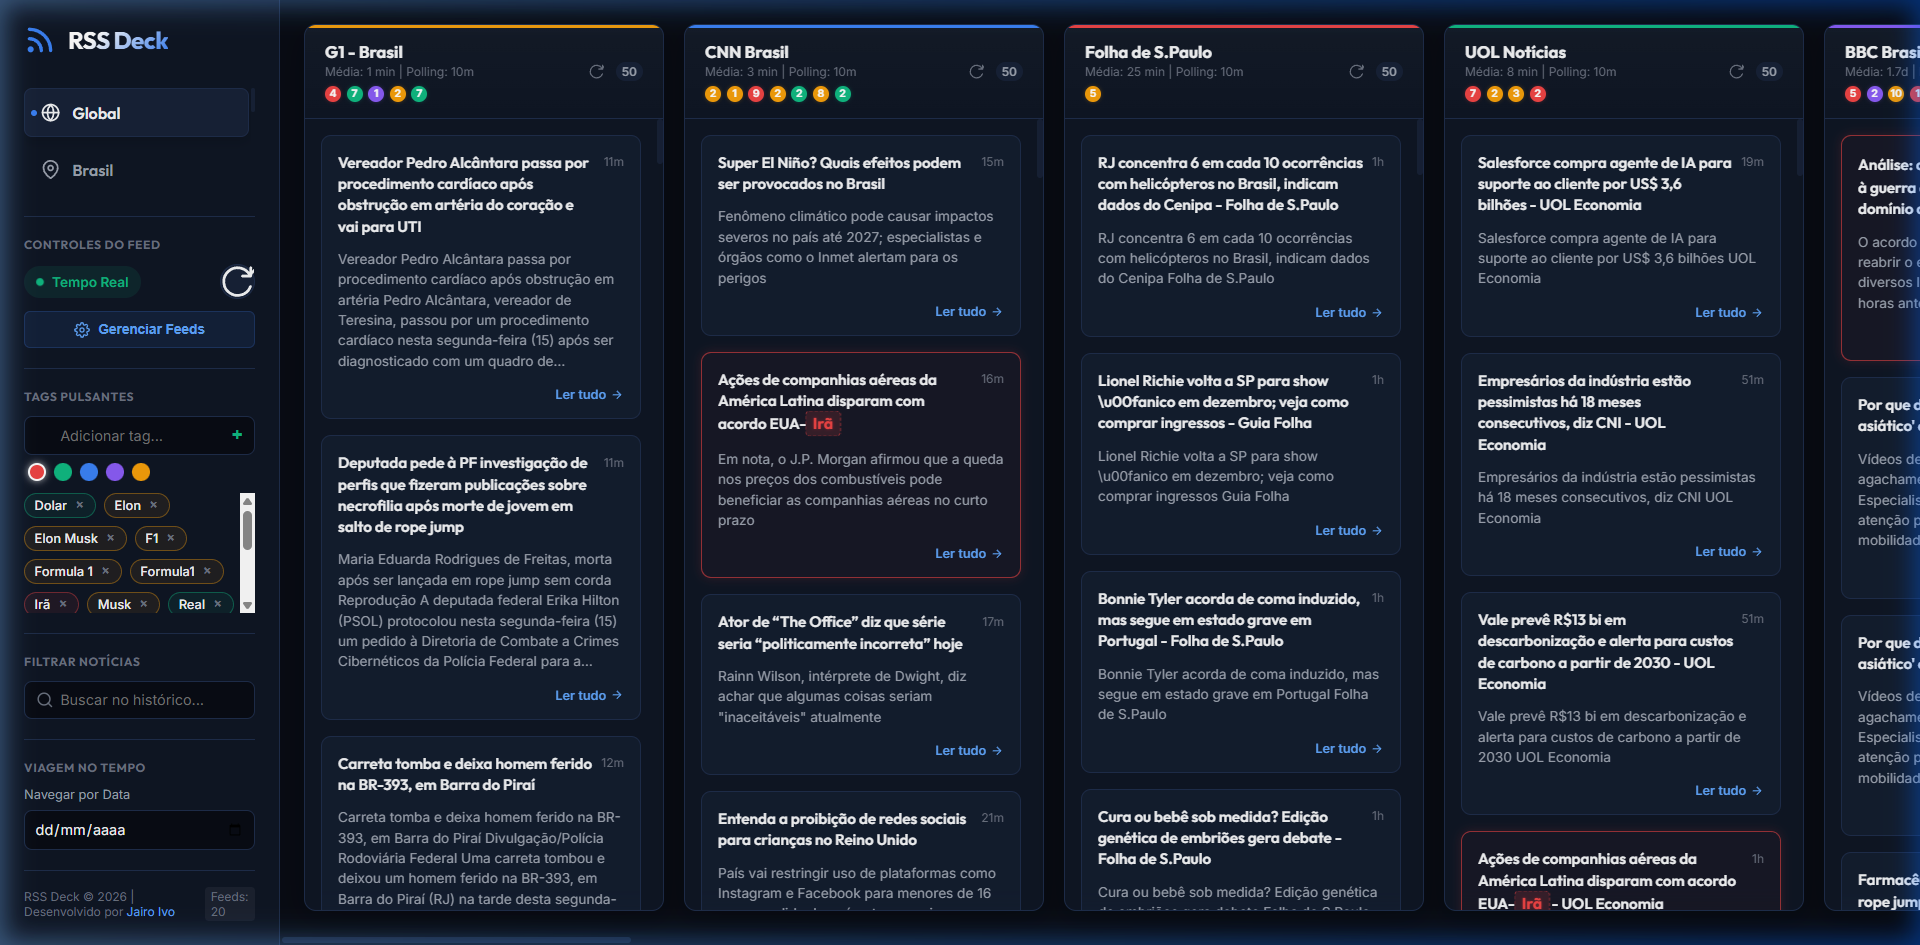
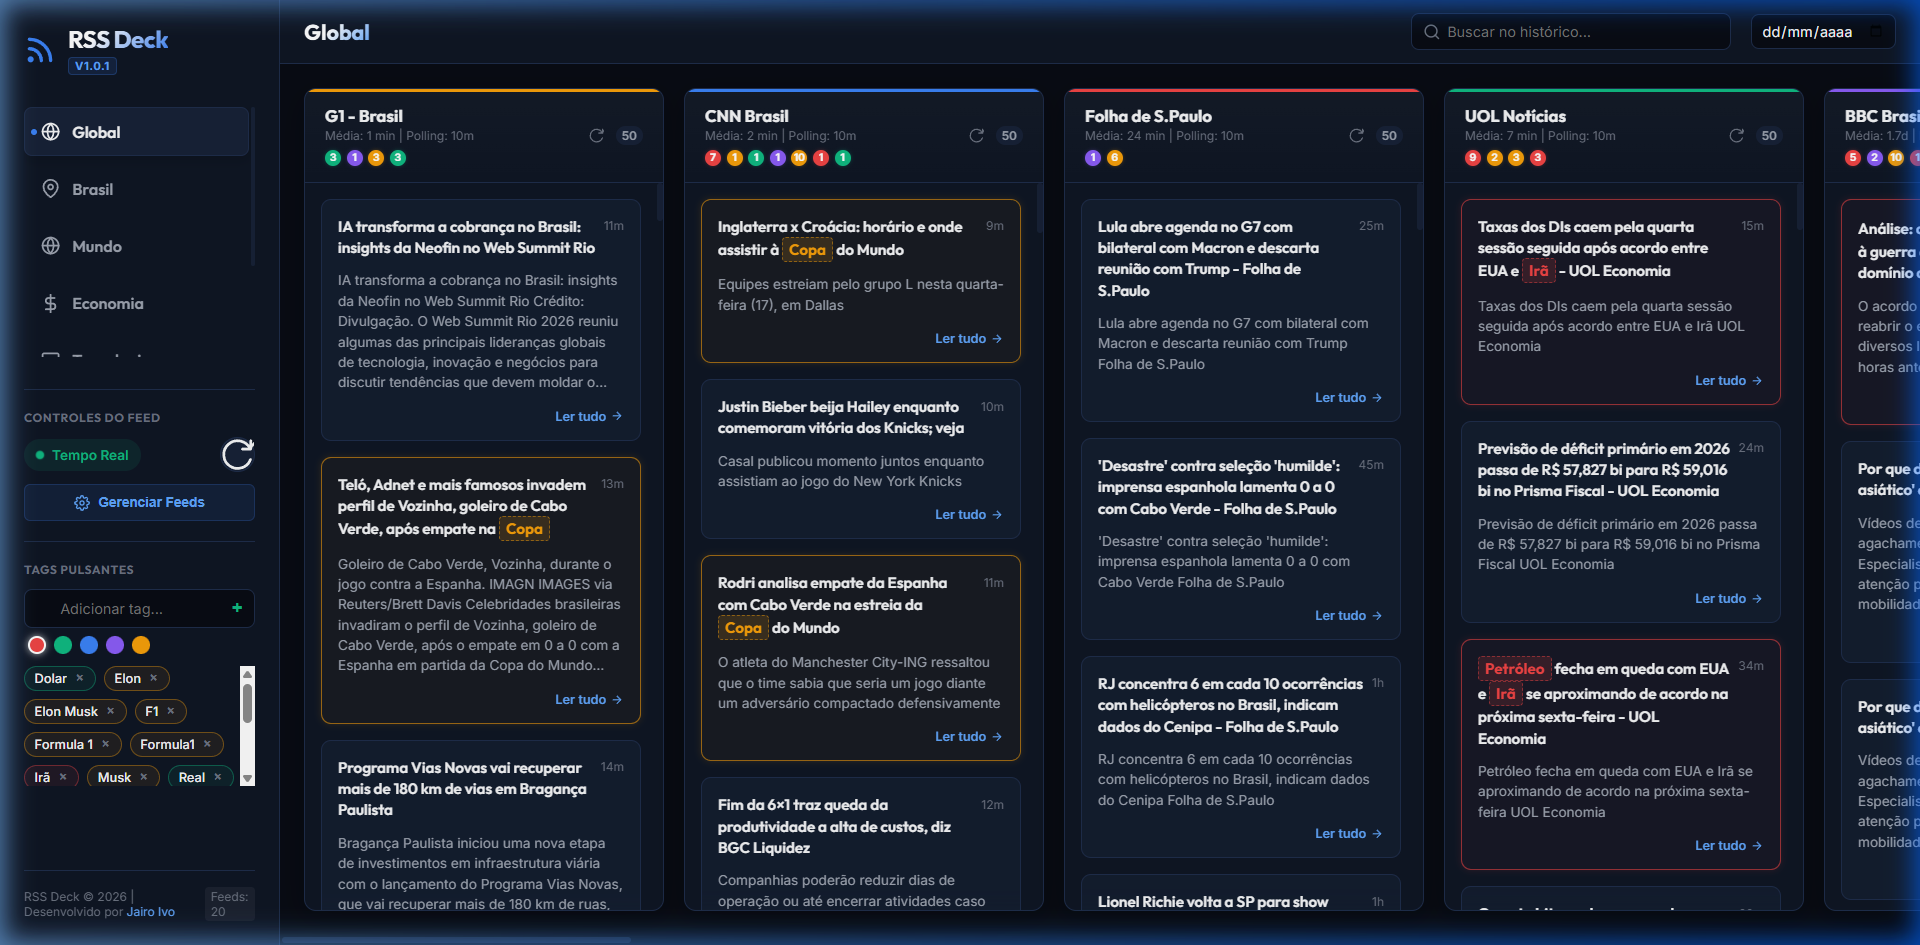
Move search/time-travel to top bar, add version badge, semantic version compare, and registry desktop shortcut resolver

Changed region(s): [[0.0, 0.0, 1.0, 1.0], [0.75, 0.3989, 0.9375, 0.6444], [0.375, 0.3989, 0.5312, 0.5524]]

diff --git a/static/style.css b/static/style.css
@@ -1380,3 +1380,110 @@ body {
   50% { opacity: 0.75; filter: brightness(0.8) saturate(0.8); }
   100% { opacity: 0.95; filter: brightness(0.95) saturate(0.9); }
 }
+
+/* Brand Text and Version Badge */
+.brand-text {
+  display: flex;
+  flex-direction: column;
+  justify-content: center;
+}
+.brand-text h1 {
+  margin-bottom: 2px !important;
+}
+.app-version-badge {
+  align-self: flex-start;
+  font-size: 0.7rem;
+  font-weight: 700;
+  color: var(--color-accent-hover);
+  background-color: rgba(59, 130, 246, 0.12);
+  padding: 1px 6px;
+  border-radius: 4px;
+  border: 1px solid rgba(59, 130, 246, 0.25);
+  font-family: var(--font-ui);
+  text-transform: uppercase;
+  letter-spacing: 0.05em;
+  margin-top: 1px;
+}
+
+/* Main Content Wrapper and Top Bar */
+.main-content {
+  display: flex;
+  flex-direction: column;
+  flex-grow: 1;
+  height: 100%;
+  overflow: hidden;
+  background-color: var(--bg-primary);
+}
+
+.top-bar {
+  height: 64px;
+  background-color: var(--bg-secondary);
+  border-bottom: 1px solid var(--border-color);
+  display: flex;
+  align-items: center;
+  justify-content: space-between;
+  padding: 0 1.5rem;
+  flex-shrink: 0;
+}
+
+.top-bar-title {
+  display: flex;
+  align-items: center;
+}
+
+.active-tab-title {
+  font-family: var(--font-heading);
+  font-size: 1.35rem;
+  font-weight: 800;
+  color: var(--text-primary);
+  letter-spacing: -0.015em;
+  background: linear-gradient(135deg, #fff 40%, var(--color-accent-hover) 100%);
+  -webkit-background-clip: text;
+  -webkit-text-fill-color: transparent;
+}
+
+.top-bar-controls {
+  display: flex;
+  align-items: center;
+  gap: 1.25rem;
+}
+
+.top-bar-controls .search-box {
+  width: 320px;
+}
+
+.top-bar-controls .search-box input {
+  padding: 0.55rem 0.75rem 0.55rem 2.2rem;
+}
+
+.top-bar-controls .time-travel-wrapper {
+  display: flex;
+  align-items: center;
+  gap: 0.75rem;
+}
+
+.top-bar-controls .custom-date-input {
+  width: 145px;
+  padding: 0.45rem 0.6rem;
+  background-color: var(--bg-primary);
+  border: 1px solid var(--border-color);
+  border-radius: 8px;
+  color: var(--text-primary);
+  font-family: var(--font-ui);
+  font-size: 0.9rem;
+  outline: none;
+  cursor: pointer;
+  transition: var(--transition-smooth);
+}
+
+.top-bar-controls .custom-date-input:focus {
+  border-color: var(--color-accent);
+}
+
+.top-bar-controls .reset-time-btn {
+  margin-top: 0;
+  padding: 0.45rem 0.85rem;
+  font-size: 0.85rem;
+  font-weight: 600;
+  white-space: nowrap;
+}

diff --git a/static/index.html b/static/index.html
@@ -20,7 +20,10 @@
           <path d="M4 4a16 16 0 0 1 16 16"></path>
           <circle cx="5" cy="19" r="1"></circle>
         </svg>
-        <h1>RSS Deck</h1>
+        <div class="brand-text">
+          <h1>RSS Deck</h1>
+          <span class="app-version-badge" id="app-version">v1.0.1</span>
+        </div>
       </div>
 
       <!-- Navigation Tabs -->
@@ -74,47 +77,47 @@
         </div>
       </div>
 
-      <!-- Search Filters -->
-      <div class="sidebar-section">
-        <h3>Filtrar Notícias</h3>
-        <div class="search-box">
-          <svg class="search-icon" xmlns="http://www.w3.org/2000/svg" viewBox="0 0 24 24" fill="none" stroke="currentColor" stroke-width="2" stroke-linecap="round" stroke-linejoin="round">
-            <circle cx="11" cy="11" r="8"></circle>
-            <line x1="21" y1="21" x2="16.65" y2="16.65"></line>
-          </svg>
-          <input type="text" id="search-input" placeholder="Buscar no histórico..." autocomplete="off">
-          <button id="clear-search-btn" class="clear-btn" style="display:none;">&times;</button>
-        </div>
-      </div>
-
-      <!-- Time Travel (Histórico) -->
-      <div class="sidebar-section">
-        <h3>Viagem no Tempo</h3>
-        <div class="time-travel-card">
-          <label for="date-picker" class="time-label">Navegar por Data</label>
-          <div class="date-input-wrapper">
-            <input type="date" id="date-picker" class="custom-date-input">
-          </div>
-          <button id="reset-time-btn" class="secondary-btn" style="display:none;">
-            Voltar para o Presente
-          </button>
-        </div>
-      </div>
-
       <div class="sidebar-footer">
         <p>RSS Deck &copy; 2026 | Desenvolvido por <a href="https://github.com/xToshiro" target="_blank" style="color: var(--color-accent-hover); text-decoration: none;">Jairo Ivo</a></p>
         <span class="db-size-info" id="db-info">Conectado</span>
       </div>
     </header>
 
-    <!-- Main Deck Scrollable Column Workspace -->
-    <main class="deck-workspace" id="deck-workspace">
-      <!-- Dynamic columns will be rendered here by JS -->
-      <div class="loading-overlay" id="loading-overlay">
-        <div class="spinner"></div>
-        <p>Carregando colunas do RSS...</p>
+    <!-- Main Content Area with top bar and columns deck workspace -->
+    <div class="main-content">
+      <div class="top-bar">
+        <div class="top-bar-title">
+          <span class="active-tab-title" id="active-tab-title">Global</span>
+        </div>
+        <div class="top-bar-controls">
+          <!-- Search box -->
+          <div class="search-box">
+            <svg class="search-icon" xmlns="http://www.w3.org/2000/svg" viewBox="0 0 24 24" fill="none" stroke="currentColor" stroke-width="2" stroke-linecap="round" stroke-linejoin="round">
+              <circle cx="11" cy="11" r="8"></circle>
+              <line x1="21" y1="21" x2="16.65" y2="16.65"></line>
+            </svg>
+            <input type="text" id="search-input" placeholder="Buscar no histórico..." autocomplete="off">
+            <button id="clear-search-btn" class="clear-btn" style="display:none;">&times;</button>
+          </div>
+          <!-- Time Travel -->
+          <div class="time-travel-wrapper">
+            <input type="date" id="date-picker" class="custom-date-input">
+            <button id="reset-time-btn" class="secondary-btn reset-time-btn" style="display:none;">
+              Voltar ao Presente
+            </button>
+          </div>
+        </div>
       </div>
-    </main>
+
+      <!-- Main Deck Scrollable Column Workspace -->
+      <main class="deck-workspace" id="deck-workspace">
+        <!-- Dynamic columns will be rendered here by JS -->
+        <div class="loading-overlay" id="loading-overlay">
+          <div class="spinner"></div>
+          <p>Carregando colunas do RSS...</p>
+        </div>
+      </main>
+    </div>
   </div>
 
   <!-- Audio Alert for incoming news (subtle pop) -->

diff --git a/static/app.js b/static/app.js
@@ -131,6 +131,12 @@ function switchTab(category) {
   
   currentCategory = category;
   
+  // Update header tab title in top bar
+  const activeTitle = document.getElementById('active-tab-title');
+  if (activeTitle) {
+    activeTitle.textContent = category;
+  }
+  
   // Toggle visual states
   document.querySelectorAll('.tab-btn').forEach(btn => {
     btn.classList.toggle('active', btn.getAttribute('data-category') === category);
@@ -1106,6 +1112,13 @@ async function checkForUpdates() {
     const response = await fetch('/api/version/check');
     if (!response.ok) return;
     const data = await response.json();
+    
+    // Update local version label text
+    const versionEl = document.getElementById('app-version');
+    if (versionEl && data.current_version) {
+      versionEl.textContent = data.current_version;
+    }
+    
     if (data.update_available) {
       showUpdateBanner(data.latest_version, data.release_url);
     }

diff --git a/app.py b/app.py
@@ -739,7 +739,7 @@ def api_feed_fetch(feed_id):
     except Exception as e:
         return jsonify({"error": str(e)}), 500
 
-CURRENT_VERSION = "v1.0.0"
+CURRENT_VERSION = "v1.0.1"
 LATEST_RELEASE_CACHE = {
     "data": None,
     "last_checked": 0
@@ -769,7 +769,15 @@ def api_version_check():
             
     if latest_info:
         latest_tag = latest_info.get("tag_name", CURRENT_VERSION)
-        update_available = (latest_tag != CURRENT_VERSION)
+        
+        def clean_v(v):
+            return [int(x) for x in v.strip().lower().lstrip('v').split('.') if x.isdigit()]
+            
+        try:
+            update_available = clean_v(latest_tag) > clean_v(CURRENT_VERSION)
+        except Exception:
+            update_available = (latest_tag != CURRENT_VERSION)
+            
         return jsonify({
             "current_version": CURRENT_VERSION,
             "latest_version": latest_tag,

diff --git a/installer.py b/installer.py
@@ -277,7 +277,15 @@ class RSSDeckInstaller:
         self.root.update()
 
     def create_desktop_shortcut(self, install_dir):
-        desktop = os.path.join(os.path.expanduser("~"), "Desktop")
+        import winreg
+        try:
+            key = winreg.OpenKey(winreg.HKEY_CURRENT_USER, r"Software\Microsoft\Windows\CurrentVersion\Explorer\User Shell Folders")
+            desktop, _ = winreg.QueryValueEx(key, "Desktop")
+            winreg.CloseKey(key)
+            desktop = os.path.expandvars(desktop)
+        except Exception:
+            desktop = os.path.join(os.path.expanduser("~"), "Desktop")
+            
         shortcut_path = os.path.join(desktop, "RSS Deck.lnk")
         
         # Get location of pythonw.exe inside current Python environment